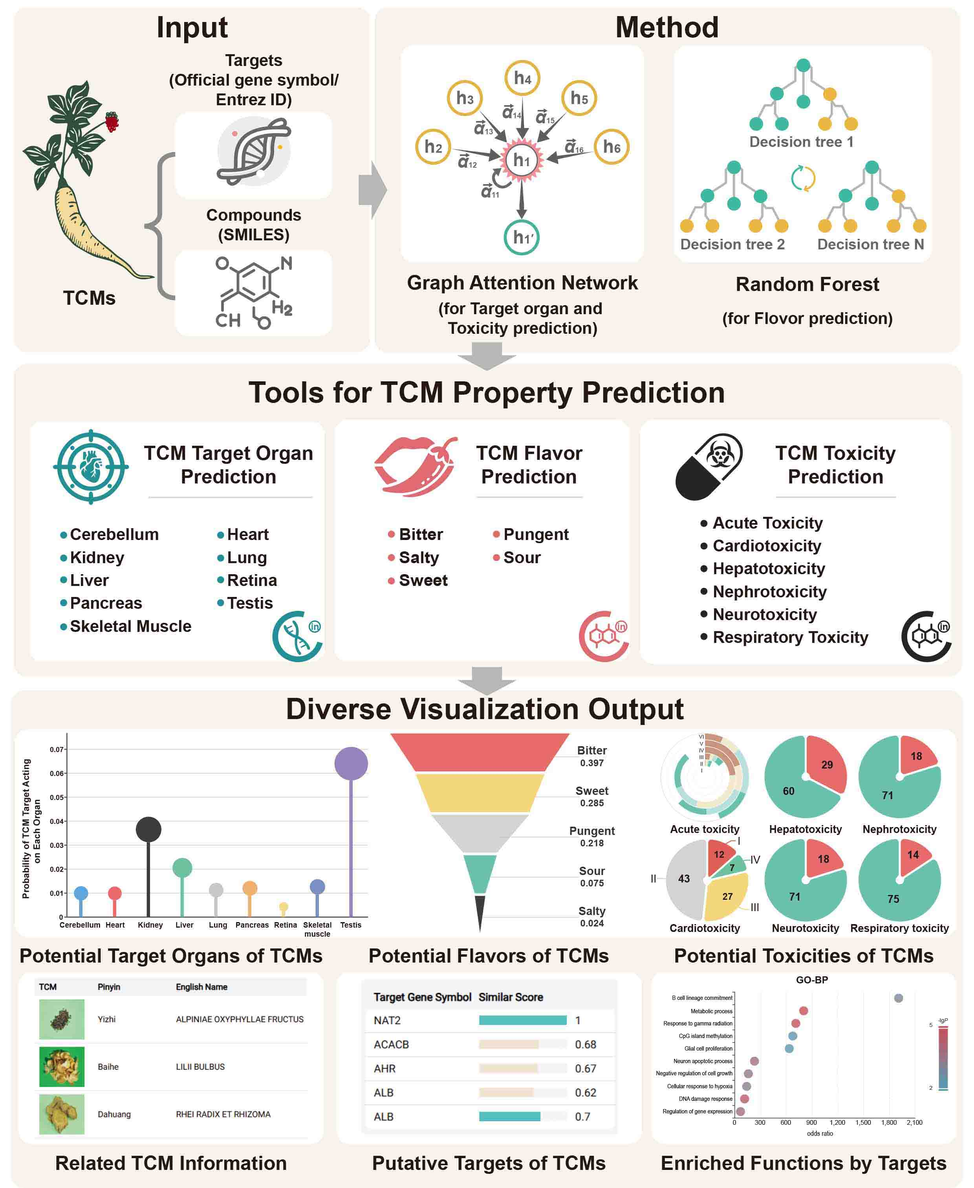
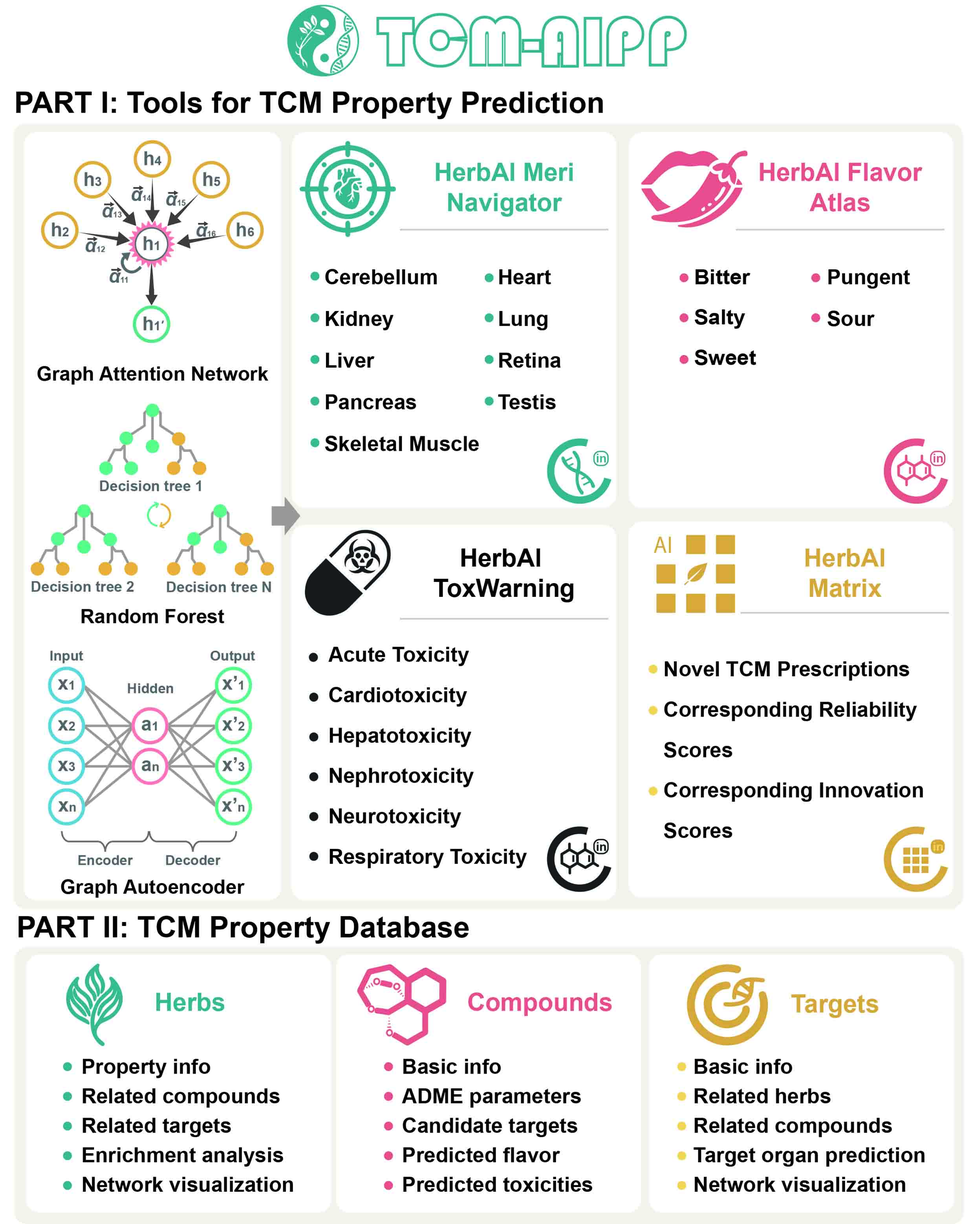
update faq (#3)

diff --git a/tcm-aipp/docs/FAQ.md b/tcm-aipp/docs/FAQ.md
@@ -5,10 +5,10 @@ sidebar_position: 01
 ## 1. Introduction
 
 <p style={{ textAlign: "justify", textIndent: "2em" }}>
-    The property theory of traditional Chinese medicine (TCM) is a unique medical theory based on extensive clinical practice for thousands of years, guiding TCM practitioners in choosing proper medicines to treat specific diseases. The target organs, flavors, and toxicities of TCM are a high generalization of the drug's characteristics according to the property theory. Despite intensive investigations, the accurate identification of TCM properties still confronts several challenges, which greatly hampers the clinical rational application and novel drug discovery of TCM.
+The property theory of traditional Chinese medicine (TCM) is a unique medical theory based on extensive clinical practice for thousands of years, guiding TCM practitioners in selecting appropriate herbs to treat specific diseases. The target organs, flavors, and toxicities of TCM are a high generalization of the drug's characteristics according to the property theory. Despite intensive investigations, the accurate identification of TCM properties still confronts several challenges, which greatly hampers the clinical rational application and novel drug discovery of TCM.
 </p>
 <p style={{ textAlign: "justify", textIndent: "2em" }}>
-Herein, the TCM Artificial Intelligence-Powered Platform (TCM-AIPP) has been developed leveraging state-of-the-art deep learning technologies. TCM-AIPP contains three predictive tools that not only identify the potential target organs, tastes and toxicities of TCM, but also provide comprehensive information on TCMs and corresponding compounds, including candidate target profiling and functional enrichment data. Notably, this web server offers flexible and diverse forms of network visualization, for which users can choose to display different relationships among herbs, compounds, targets, target organs, flavors, and toxicities according to their research aims, as well as design and modify the network nodes and edges at will.
+Herein, the TCM Artificial Intelligence-Powered Platform (TCM-AIPP) has been developed leveraging state-of-the-art deep learning technologies. TCM-AIPP contains four predictive tools that not only identify the potential target organs, tastes, toxicities and formulation of TCM, but also provide comprehensive information on TCMs and corresponding compounds, including candidate target profiling and functional enrichment data. Notably, this web server offers flexible and diverse forms of network visualization, for which users can choose to display different relationships among herbs, compounds, targets, target organs, flavors, and toxicities according to their research aims, as well as design and modify the network nodes and edges at will.
 </p>
 <p style={{ textAlign: "justify", textIndent: "2em" }}>
 Uncovering the properties of TCM is of great importance for both clinical applications and TCM-derived drug R&D. TCM-AIPP may help to facilitate the recognition of the properties of TCMs, explain the underlying mechanisms of TCM against various human diseases, and provide guidance for TCM practitioners.
@@ -36,18 +36,18 @@ Uncovering the properties of TCM is of great importance for both clinical applic
 
 ### 2.1 Model information and validation
 <p style={{ textAlign: "justify", textIndent: "2em" }}>
-A total of three tools for predicting target organs, flavors and toxicities of TCMs were constructed and developed in the TCM-AIPP web server based on Random Forest (RF) machine learning and Graph Attention Network (GAT), respectively. These tools contain 19 prediction models, including 10 classification models and 9 regression models. For each endpoint, the dataset is randomly divided into training, validation (VAL) and test sets in the ratio of 8:1:1. The RF model is implemented using the tree ensemble learner and predictor nodes in KNIME, Gini coefficient is used for segmentation criteria, square root function is used for attribute sampling and different sets of attributes are selected for all trees. The GAT employs an Adam optimizer with hyperparameter tuning via Bayesian optimization. The regression task was assessed using the coefficient of determination (R2), root mean squared error (RMSE), and mean absolute error (MAE), whereas the classification task was evaluated based on accuracy, the area under the receiver operating characteristic (ROC-AUC) curve, Mathews correlation coefficient (MCC), precision, specificity and sensitivity. To guarantee the reliability and precision of the models, each training process was conducted 10 times, and the most effective models were then deployed to the online platform.
+A total of four tools for predicting target organs, flavors, toxicities and formulation of TCMs were constructed and developed in the TCM-AIPP web server based on Random Forest (RF) machine learning, Graph Attention Network (GAT), graph autoencoder (GAE) respectively. These tools contain 20 prediction models, including 10 classification models and 10 regression models. For each endpoint, the dataset is randomly divided into training, validation (VAL) and test sets in the ratio of 8:1:1. The RF model is implemented using the tree ensemble learner and predictor nodes in KNIME, Gini coefficient is used for segmentation criteria, square root function is used for attribute sampling and different sets of attributes are selected for all trees. The GAT and GAE employs an Adam optimizer with hyperparameter tuning via Bayesian optimization. The regression task was assessed using the coefficient of determination (R2), root mean squared error (RMSE), and mean absolute error (MAE), whereas the classification task was evaluated based on accuracy, the area under the receiver operating characteristic (ROC-AUC) curve, Mathews correlation coefficient (MCC), precision, specificity and sensitivity. To guarantee the reliability and precision of the models, each training process was conducted 10 times, and the model with the best performance on the validation set was selected for deployment to the online platform.
 </p>
 
-### 2.2 TCM target organ prediction
+### 2.2 TCM target organ prediction (HerbAI Meri Navigator)
 <p style={{ textAlign: "justify", textIndent: "2em" }}>
-The TCM target organ prediction model was developed based on GAT, which aims to reveal the action tendency of TCM on different organs. The targets of TCM are complex and diverse, and their mechanisms of action are difficult to explain intuitively, so they need to be accurately predicted by systematic network analysis methods. This model can effectively predict the effects of TCM on specific organs by integrating the information of human protein-protein interaction (PPI) network (1) and the effective targets of TCM.
+The TCM target organ prediction model (HerbAI Meri Navigator) was developed based on GAT, which aims to reveal the action tendency of TCM on different organs. The targets of TCM are complex and diverse, and their mechanisms of action are difficult to explain intuitively, so they need to be accurately predicted by systematic network analysis methods. This model can effectively predict the effects of TCM on specific organs by integrating the information of human protein-protein interaction (PPI) network (1) and the effective targets of TCM.
 </p>
 <p style={{ textAlign: "justify", textIndent: "2em" }}>
-The model was constructed based on a number of reliable data sources. Proteins specifically expressed in each organ were collected from The Human Protein Atlas. These proteins were screened for "Enhanced" and "High" levels of evidence, and occurring only once in all organs. To further substantiate the independence of organ target sets within the PPI network, a network separation analysis was employed to differentiate between organ-specific target sets. In the GAT, organ-specific targets were mapped to the PPI network, and interactions between protein nodes were analyzed through the graph attention mechanism to calculate the specificity scores of different protein nodes for each organ. The model weights integrate the organ-specific scores of each target according to the combination of the effective targets of the TCM, thereby more accurately predicting the tendency of the TCM to target specific organs.
+The model was constructed based on a number of reliable data sources. Proteins specifically expressed in each organ were collected from The Human Protein Atlas. These proteins were screened for "Enhanced" and "High" levels of evidence, and occurring only once in all organs. To further substantiate the independence of organ target sets within the PPI network, a network separation analysis was employed to differentiate between organ-specific target sets. In the GAT, organ-specific targets were mapped to the PPI network, and interactions between protein nodes were analyzed through the graph attention mechanism to calculate the specificity scores of different protein nodes for each organ. The model integrates the organ-specific scores of each target. By aggregating these scores across all effective targets of a given TCM, it more accurately predicts the herb's tendency to act on specific organs.
 </p>
 <p style={{ textAlign: "justify", textIndent: "2em" }}>
-To validate the performance of the model, we collected effective target data with high-quality literature support from the HIT database, which demonstrated optimal prediction quality in several models. A total of 442 TCMs with documented organ effects, as recorded in the Chinese Pharmacopoeia, were subjected to extraction of their corresponding effective targets, amounting to a total of 64,795. During the validation process, if the actual organ of target of a TCM was located in the top three organs predicted by the model (a single TCM is known to target on up to 4 organs), the prediction was considered to be a true-positive result. The model was initially validated for the four organs of the liver, heart, lungs, and kidneys (as documented in the Pharmacopoeia) and achieved a more satisfactory model performance. Subsequently, the validation was extended to encompass modeling of additional organs, including the cerebellum, pancreas, retina, skeletal muscle, and testis. Notably, with the exception of the heart-skeletal muscle, the target sets of these organs showed significant topological separation in the PPI, which further enhanced the predictive performance of the model. 
+To validate the performance of the model, we collected effective target data with high-quality literature support from the HIT database, which demonstrated optimal prediction quality in several models. A total of 442 TCMs with documented organ effects, as recorded in the Chinese Pharmacopoeia, were analyzed. Their corresponding effective targets were extracted, resulting in a total of 64,795 herb-target associations. During the validation process, if the actual organ of target of a TCM was located in the top three organs predicted by the model (a single TCM is known to target on up to 4 organs), the prediction was considered to be a true-positive result. The model was initially validated for the four organs of the liver, heart, lungs, and kidneys (as documented in the Pharmacopoeia) and achieved a more satisfactory model performance. Subsequently, the validation was extended to encompass modeling of additional organs, including the cerebellum, pancreas, retina, skeletal muscle, and testis. Notably, with the exception of the heart-skeletal muscle, the target sets of these organs showed significant topological separation in the PPI, which further enhanced the predictive performance of the model.
 </p>
 
 **<div align="center">Table 1. Basic information of TCM target organ prediction tool</div>**
@@ -81,14 +81,14 @@ To validate the performance of the model, we collected effective target data wit
 
 ### 2.3 TCM flavor prediction
 <p style={{ textAlign: "justify", textIndent: "2em" }}>
-The flavor prediction model of TCM-AIPP was constructed using the RF algorithm. This model evaluates the chemical structural similarities between the input compounds and compounds with known flavors obtained from PubChem, VirtualTaste and ChemTastesDB.
+The flavor prediction model (HerbAI Flavor Atlas) of TCM-AIPP was constructed using the RF algorithm. This model evaluates the chemical structural similarities between the input compounds and compounds with known flavors obtained from PubChem, VirtualTaste and ChemTastesDB.
 </p>
 <p style={{ textAlign: "justify", textIndent: "2em" }}>
-Then, the flavors of TCM were predicted by weighted averaging the compounds' flavors, especially the index compounds recorded by the Chinese Pharmacopoeia 2020 and the other compounds were assigned different weights. The predictive performance of this model was evaluated based on 558 TCMs with the flavor records in the Chinese Pharmacopoeia 2020 and the corresponding 19,068 compounds obtained from BATMAN-TCM. If the actual flavors of a certain TCM are included in the top three predicted flavors of the model (it is generally known that a single TCM have up to 3 flavors), the result may be considered to be true-positive.
+Then, the flavors of TCM were predicted by weighted averaging the compounds' flavors, especially the index compounds recorded by the Chinese Pharmacopoeia 2020 and the other compounds were assigned different weights. The predictive performance of this model was evaluated based on 558 TCMs with the flavor records in the Chinese Pharmacopoeia 2020 and the corresponding 19,068 compounds obtained from BATMAN-TCM. If the actual flavors of a certain TCM are included in the top three predicted flavors of the model (it is generally known that a single TCM have up to 3 flavors), the result was considered a true-positive.
 </p>
 
 **<div align="center">Table 2. Basic information of TCM flavor prediction tool</div>**
-<table style={{borderCollapse: "collapse", width: "40%", margin: "0 auto"}}>
+<table style={{borderCollapse: "collapse", width: "80%", margin: "0 auto"}}>
   <tr>
     <td style={{backgroundColor: "#009999", color: "white"}}><strong>Flavors</strong></td>
     <td>Flavors of compounds</td>
@@ -116,9 +116,9 @@ Then, the flavors of TCM were predicted by weighted averaging the compounds' fla
 </table>
 
 
-### 2.4 TCM toxicity prediction
+### 2.4 TCM toxicity prediction (HerbAI ToxWarning)
 <p style={{ textAlign: "justify", textIndent: "2em" }}>
-The toxicity prediction model of TCM-AIPP was constructed using the GAT algorithm.  This model evaluates the chemical structural similarities between the input compounds and compounds with known toxicities obtained from TOXRIC, DIRIL, DrugBank and PubChem. On this basis, TCM-AIPP can predict the potential toxicities [acute and organ toxicities (including cardiotoxicity, hepatotoxicity, nephrotoxicity, neurotoxicity, and respiratory toxicity)] of the input compounds and the toxic risk of TCMs according to the number of toxic compounds in the chemical profiling. In addition, TCM-AIPP also provides the putative targets of the toxic compounds containing TCMs and their enriched biological functions and pathways. These data provide an important reference for the safety evaluation of TCMs and the investigation of the underlying toxic mechanisms.
+The toxicity prediction model (HerbAI ToxWarning) of TCM-AIPP was constructed using the GAT algorithm. This model evaluates the chemical structural similarities between the input compounds and compounds with known toxicities obtained from TOXRIC, DIRIL, DrugBank and PubChem. On this basis, TCM-AIPP can predict the potential toxicities [acute and organ toxicities (including cardiotoxicity, hepatotoxicity, nephrotoxicity, neurotoxicity, and respiratory toxicity)] of the input compounds and the toxic risk of TCMs according to the number of toxic compounds in the chemical profiling. In addition, TCM-AIPP also provides the putative targets of the toxic compounds containing TCMs and their enriched biological functions and pathways. These data provide an important reference for the safety evaluation of TCMs and the investigation of the underlying toxic mechanisms.
 </p>
 
 #### 2.4.1 Acute toxicity
@@ -127,7 +127,7 @@ Two prediction models for acute toxicity were developed for different applicatio
 </p>
 
 **<div align="center">Table 3. Basic information of TCM acute toxicity prediction tool</div>**
-<table style={{borderCollapse: "collapse", width: "50%", margin: "0 auto"}}>
+<table style={{borderCollapse: "collapse", width: "80%", margin: "0 auto"}}>
   <tr>
     <td style={{backgroundColor: "#009999", color: "white"}}><strong>Prediction Type</strong></td>
     <td>Lethal Dose value in mg/kg body weight (Rat and Mouse)</td>
@@ -161,7 +161,7 @@ Two prediction models for acute toxicity were developed for different applicatio
 
 **<div align="center">Table 4. Definition of the acute toxicity levels</div>**
 
-<table style={{borderCollapse: "collapse", width: "40%", margin: "0 auto", textAlign: "center"}}>
+<table style={{borderCollapse: "collapse", width: "80%", margin: "0 auto", textAlign: "center"}}>
   <tr style={{backgroundColor: "#009999", color: "white"}}>
     <th colspan="1">Acute Toxicity Level</th>
     <th colspan="1">GHS (Oral LD50 mg/kg)</th>
@@ -233,7 +233,7 @@ Accumulating studies have reported the cardiotoxicity induced by drugs, which ma
 </p>
 
 **<div align="center">Table 6. Basic information of TCM cardiotoxicity prediction tool</div>**
-<table style={{borderCollapse: "collapse", width: "40%", margin: "0 auto"}}>
+<table style={{borderCollapse: "collapse", width: "80%", margin: "0 auto"}}>
   <tr>
     <td style={{backgroundColor: "#009999", color: "white"}}><strong>Prediction&nbsp;Type</strong></td>
     <td>Compounds induced cardiotoxicity</td>
@@ -266,7 +266,7 @@ Accumulating studies have reported the cardiotoxicity induced by drugs, which ma
 <br /> 
 
 **<div align="center">Table 7. Definition of the hERG inhibition levels</div>**
-<table style={{borderCollapse: "collapse", width: "40%", margin: "0 auto", textAlign: "center"}}>
+<table style={{borderCollapse: "collapse", width: "80%", margin: "0 auto", textAlign: "center"}}>
   <tr style={{backgroundColor: "#009999", color: "white"}}>
     <th>Levels</th>
     <th>hERG inhibition values [IC50 (μM)]</th>
@@ -292,7 +292,7 @@ Accumulating studies have reported the cardiotoxicity induced by drugs, which ma
 
 #### 2.4.3 Hepatotoxicity
 **<div align="center">Table 8. Basic information of TCM hepatotoxicity prediction tool</div>**
-<table style={{borderCollapse: "collapse", width: "40%", margin: "0 auto"}}>
+<table style={{borderCollapse: "collapse", width: "80%", margin: "0 auto"}}>
   <tr>
     <td style={{backgroundColor: "#009999", color: "white"}}><strong>Prediction Type</strong></td>
     <td>Compounds induced hepatotoxicity</td>
@@ -321,7 +321,7 @@ Accumulating studies have reported the cardiotoxicity induced by drugs, which ma
 
 #### 2.4.4 Nephrotoxicity
 **<div align="center">Table 9. Basic information of TCM nephrotoxicity prediction tool</div>**
-<table style={{borderCollapse: "collapse", width: "40%", margin: "0 auto"}}>
+<table style={{borderCollapse: "collapse", width: "80%", margin: "0 auto"}}>
   <tr>
     <td style={{backgroundColor: "#009999", color: "white"}}><strong>Prediction Type</strong></td>
     <td>Compounds induced nephrotoxicity</td>
@@ -350,7 +350,7 @@ Accumulating studies have reported the cardiotoxicity induced by drugs, which ma
 
 #### 2.4.5 Neurotoxicity
 **<div align="center">Table 10. Basic information of TCM neurotoxicity prediction tool</div>**
-<table style={{borderCollapse: "collapse", width: "40%", margin: "0 auto"}}>
+<table style={{borderCollapse: "collapse", width: "80%", margin: "0 auto"}}>
   <tr>
     <td style={{backgroundColor: "#009999", color: "white"}}><strong>Prediction Type</strong></td>
     <td>Compounds induced neurotoxicity</td>
@@ -379,7 +379,7 @@ Accumulating studies have reported the cardiotoxicity induced by drugs, which ma
 
 #### 2.4.6 Respiratory Toxicity
 **<div align="center">Table 11. Basic information of TCM respiratory prediction tool</div>**
-<table style={{borderCollapse: "collapse", width: "40%", margin: "0 auto"}}>
+<table style={{borderCollapse: "collapse", width: "80%", margin: "0 auto"}}>
   <tr>
     <td style={{backgroundColor: "#009999", color: "white"}}><strong>Prediction Type</strong></td>
     <td>Compounds induced respiratory toxicity</td>
@@ -406,7 +406,17 @@ Accumulating studies have reported the cardiotoxicity induced by drugs, which ma
   </tr>
 </table>
 
-### 2.5 Standard Datasets for Model Construction
+### 2.5 TCM formula design (HerbAI Matrix)
+<p style={{ textAlign: "justify", textIndent: "2em" }}>
+The TCM formula design model (HerbAI Matrix) was built upon the GAE model and leverages artificial intelligence to modernize the principles of HerbAI compatibility. The model systematically mines large-scale prescription data to extract herb-pair co-occurrence patterns and integrates multi-dimensional features—such as nature, flavor, meridian tropism, pharmacological action, and chemical composition—into unified digital descriptors.
+</p>
+
+<p style={{ textAlign: "justify", textIndent: "2em" }}>
+Through GAE-based node embedding, each herb is projected into a latent feature space where hidden synergistic relationships are quantitatively inferred. These embeddings give rise to an herb-pairing network that captures the structural and therapeutic logic of TCM formulations. By applying the Louvain community detection algorithm, HerbAI Matrix further identifies functionally cohesive herb clusters, thereby uncovering novel, data-driven formula candidates that bridge traditional theory and modern computational discovery. 
+</p>
+
+
+### 2.6 Standard Datasets for Model Construction
 **<div align="center">Table 12. Detailed information of the standard datasets</div>**
 
 <table style={{borderCollapse: "collapse", width: "100%", textAlign: "center"}}>
@@ -539,11 +549,11 @@ Accumulating studies have reported the cardiotoxicity induced by drugs, which ma
 </table>
 
 
-### 2.6 Model Performance Evaluation
+### 2.7 Model Performance Evaluation
 
 **<div align="center">Table 13. Predictive performance of TCM target organ prediction model </div>**
 
-<table style={{borderCollapse: "collapse", width: "70%", margin: "0 auto", textAlign: "center"}}>
+<table style={{borderCollapse: "collapse", width: "80%", margin: "0 auto", textAlign: "center"}}>
   <tr style={{backgroundColor: "#009999", color: "white"}}>
     <th>Organ</th>
     <th>Dataset</th>
@@ -918,23 +928,23 @@ Accumulating studies have reported the cardiotoxicity induced by drugs, which ma
 
 ### 3.1 Input information
 <p style={{ textAlign: "justify", textIndent: "2em" }}>
-The TCM-AIPP web server provides an intuitive and user-friendly interactive interface for users to easily enter official gene symbols individually or in batches to predict target organs or Simplified Molecular-Input Line Entry System (SMILES) strings of compounds to predict their flavors, acute toxicities, and organ toxicities. 
+The TCM-AIPP web server offers an intuitive and interactive interface that enables users to seamlessly perform multiple prediction tasks. Users can input official gene symbols—either individually or in batches—to predict target organs; provide Simplified Molecular-Input Line Entry System (SMILES) strings of compounds to infer their flavors, acute toxicities, and organ-specific toxicities; or upload ancient, proprietary, or clinically empirical TCM formulas along with the attributes of constituent herbs to facilitate rational TCM formula design.
 </p>
 
 ### 3.2 Output information
 <p style={{ textAlign: "justify", textIndent: "2em" }}>
-Depending on the number of elements entered by the user, the prediction results will be presented in the browser in the form of diversified charts and tables. In the target organ prediction interface, when the user enters a single gene, the system provides information on the related TCMs of the gene, the prediction results of the target organ, and the secondary network interacting with the input gene; if multiple genes are entered in a batch, the results include a summary of the target organ classification of all the genes, the related TCMs, and information on TCMs significantly enriched according to their effective targets. The flavor or toxicity prediction webpage provides the flavor, acute toxicity, organ toxicity prediction results of compounds, related TCMs, candidate targets, and biological function enrichment analysis based on the input SMILES. For batch input, the result will present a categorized summary of all prediction results, information on related TCMs and significantly enriched according to the components contained in the TCMs, candidate targets and corresponding biological function enrichment analysis, and support network visualization to clearly show the relationship between TCMs-compounds-targets. The methodologies employed for target prediction and enrichment analysis have been previously delineated in our research publications (25). The new server allows users to download the results in several file formats: .csv, .png, .svg, and .sif (which supports linking to Cytoscape for further customization and analysis). 
+Depending on the number of elements entered by the user, the prediction results will be presented in the browser in the form of diversified charts and tables. In the target organ prediction interface, when the user enters a single gene, the system provides information on the related TCMs of the gene, the prediction results of the target organ, and the secondary network interacting with the input gene; if multiple genes are entered in a batch, the results include a summary of the target organ classification of all the genes, the related TCMs, and information on TCMs significantly enriched according to their effective targets. The flavor or toxicity prediction webpage provides the flavor, acute toxicity, organ toxicity prediction results of compounds, related TCMs, candidate targets, and biological function enrichment analysis based on the input SMILES. For batch input, the result will present a categorized summary of all prediction results, information on related TCMs and significantly enriched according to the components contained in the TCMs, candidate targets and corresponding biological function enrichment analysis, and support network visualization to clearly show the relationship between TCMs-compounds-targets. The methodologies employed for target prediction and enrichment analysis have been previously delineated in our research publications (25). Upon upload, the HerbAI Matrix webpage generates a series of quantitative and visual outputs include herb-pair frequency analysis revealing traditional compatibility patterns, GAE performance metrics assessing model reliability, predicted herb pairs with reliability scores and pharmacological relevance adjustable by threshold, and Louvain clustering that identifies candidate formulas, each annotated with cluster-formation probability and an innovation score quantifying deviation from known prescriptions.The new server allows users to download the results in several file formats: .csv, .png, .svg, and .sif (which supports linking to Cytoscape for further customization and analysis).
 </p>
 
 ### 3.3 Processing times
 <p style={{ textAlign: "justify", textIndent: "2em" }}>
-TCM-AIPP is capable of processing a single input of up to 3000 targets or 1000 SMILES, facilitating the prediction of the target organ of a certain target, as well as the flavor and toxicity of a certain compound. In terms of computational efficiency, when the server queue is free and the resources are sufficient, the prediction output time of a single model is controlled to be less than 1 minute, thereby meeting the requirement of efficient computation.
+TCM-AIPP can process up to 3,000 targets, 1,000 SMILES strings, or [?] known formulas (comprising [?] unique herbs) in a single run, enabling the prediction of target organs for specific genes, flavor and toxicity profiles for compounds, and the design of novel TCM formulas. In terms of computational efficiency, when the server queue is free and the resources are sufficient, the prediction output time of a single model is controlled to be less than 1 minute, thereby meeting the requirement of efficient computation.
 </p>
 
 ### 3.4 Quick start
 
 <p style={{ textAlign: "justify", textIndent: "2em" }}>
-Users can select any tool they want to predict TCM target organs, flavors and toxicities from the left side of the Home page or the Services page. The Home page offers a more convenient option, while the Services page provides basic information about each tool.
+This section provides a quick start guide for key functionalities. The following subsections (3.4.4 onwards) detail the operation of specific tools. TCM-AIPP supports both Simplified Chinese and English, allowing users to switch languages via the upper-right corner of the interface. Prediction tools for TCM target organs, flavors, toxicities, and formula design can be accessed from the AI Tools section—either through the shortcut on the upper-left side or via the Services page on center of the Home page. The “upper-left side” offers a faster entry point, whereas the “center” page presents a more informative overview.
 </p>
 
 ![](../img/Q1.jpg)
@@ -1019,9 +1029,88 @@ For multiple inputs, TCM-AIPP provides statistical data regarding the potential 
 
 **NOTE: Two sampling methods were used to predict acute toxicity (see 2.4.1). For the same compound, we recommend selecting the lower grade as the reference. This approach is more conservative and is designed to avoid false negatives, which are more harmful than false positives. The reliable scores of candidate targets provided herein are higher than 0.6.**
 
+#### 3.4.4 TCM formulas design (HerbAI Matrix)
+<p style={{ textAlign: "justify", textIndent: "2em" }}>
+Users can upload existing formulas for specific diseases, including classical prescriptions, proprietary TCM formulas, and clinical empirical formulas. The characteristics of all constituent herbs must be provided in matrix format, with customizable features such as herb properties, efficacies, and pharmacological actions, depending on the disease context. Detailed data format specifications and upload requirements are provided in the right-side panel of the interface.
+</p>
+
+![](../img/figure3.1.jpg)
+
+<p style={{ textAlign: "justify", textIndent: "2em" }}>
+Upon completion of calculations, HerbAI Matrix provides multi-dimensional visual and quantitative results to facilitate the interpretation of TCM formula patterns and the discovery of novel herb combinations, include:
+</p>
+
+- a) Herb-pair frequency statistics – visualize co-occurrence frequencies from uploaded prescriptions to reveal traditional compatibility patterns.
+
+- b) GAE performance evaluation – assess model reliability using accuracy, ROC–AUC, and MCC, displayed through ROC curves and summary tables.
+
+- c) Predicted herb pairs – generate potential synergistic pairs with reliability scores and pharmacological relevance, adjustable via user-defined thresholds.
+
+- d) Candidate formula clustering – apply the Louvain algorithm to identify novel formula clusters, each annotated with cluster-formation probability and an innovation score quantifying deviation from known prescriptions.
+
+![](../img/figure4.1.jpg)
+
+<p style={{ textAlign: "justify", textIndent: "2em" }}>
+Additionally, the system enables the visualization of the network of herbs-compounds-targets.
+</p>
+
+![](../img/figure5.1.jpg)
+
+**NOTE: HerbAI Matrix functions as a task-adaptive framework for TCM formula prediction, rather than a static model with fixed parameters. The model’s performance is inherently determined by the characteristics of the user-provided dataset and the specific objectives of each training task. Upon the input of new formula or compound-feature data, the system automatically reconstructs and retrains a tailored model. Accordingly, each prediction task constitutes an independent modeling process, enabling users to evaluate the validity and robustness of the generated results based on quantitative performance metrics.**
+
+
+#### 3.4.5 TCM property database
+
+<p style={{ textAlign: "justify", textIndent: "2em" }}>
+Users can directly access the corresponding databases via the “Database” entry located in the upper-left corner of the homepage or through the central panel.
+</p>
+
+![](../img/figure6.1.jpg)
+
+##### 3.4.5.1 Herb database
+
+<p style={{ textAlign: "justify", textIndent: "2em" }}>
+The database of Chinese medicinal materials provides a comprehensive compendium of information, including the Chinese name, Pinyin, English name, Latin name, family, four qi, five flavors, meridian tropism, toxicity, and actions of TCM. To guarantee the authority and accuracy of the information, this section of the data currently exclusively incorporates information on Chinese medicinal materials contained in the Chinese Pharmacopoeia.
+</p>
+
+![](../img/figure7.1.jpg)
+
+<p style={{ textAlign: "justify", textIndent: "2em" }}>
+For detailed information, the database provides data on related compounds, corresponding TCM targets, and the biological functions and pathways associated with their effective targets based on enrichment analysis.
+</p>
+
+![](../img/figure8.1.jpg)
+
+##### 3.4.5.2 Compound database
+
+<p style={{ textAlign: "justify", textIndent: "2em" }}>
+The compounds database is a comprehensive repository of information on Chinese medicinal materials, encompassing molecular weight, SMILES, aliases, and other pertinent data.
+</p>
+ 
+![](../img/figure9.1.jpg)
+
+<p style={{ textAlign: "justify", textIndent: "2em" }}>
+For detailed information, the database has predicted the physicochemical and pharmacognostic properties of each constituent, as well as its absorption, metabolism, distribution, and excretion parameters.
+</p>
+
+![](../img/figure10.1.jpg)
+
+<p style={{ textAlign: "justify", textIndent: "2em" }}>
+Meanwhile, the database provides potential flavor, acute toxicity and organ toxicities of the compound.
+</p>
+
+![](../img/figure11.1.jpg)
+
+##### 3.4.5.3 Target database
+
+<p style={{ textAlign: "justify", textIndent: "2em" }}>
+The target database principally furnishes target information pertaining to Chinese medicinal materials, comprising gene symbol, alias, full name, gene type, species, related herbs, related compounds and probability of target acting on each organ.
+</p>
+
+![](../img/figure12.1.jpg)
+
 ## 4. API Tutorial
 <p style={{ textAlign: "justify", textIndent: "2em" }}>
-
 For users with more advanced analytical requirements, TCM-AIPP offers a straightforward POST interface that enables data to be queried through the programming language of your choice. While the site responds quickly, there may be a slight delay in Python scripts due to the queuing of user requests. Please note that a maximum of 100 API queries can be made per source IP per day, with query intervals becoming longer as the number of requesting models increases. To run the script, the system must have Python (version 3.12 or higher) installed and executed from the command line.You can download this script to your local computer and use it, or write your own with the script as a reference: [Sample API Script](https://raw.githubusercontent.com/tcm-aipp/tcm-aipp.github.io/refs/heads/main/tcm-aipp/src/scripts/tcmaipp_api.py)
 </p>
 
@@ -1037,8 +1126,8 @@ Please enter the Official gene symbol or Entrez ID for the query in order to pro
 
 **For TCM Flavor Prediction**
 <p style={{ textAlign: "justify", textIndent: "2em" }}>
- Please enter the SMILES strings for the query in order to proceed with this command. 
- </p>
+Please enter the SMILES strings for the query in order to proceed with this command. 
+</p>
 
 <p style={{ textAlign: "justify" }}>
   Example: 
